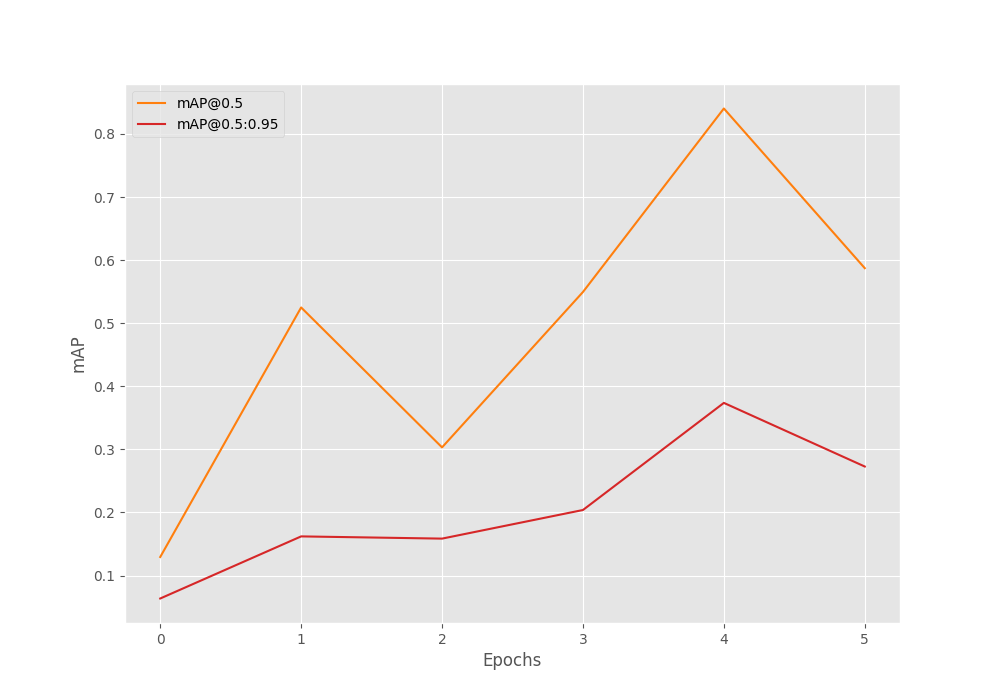
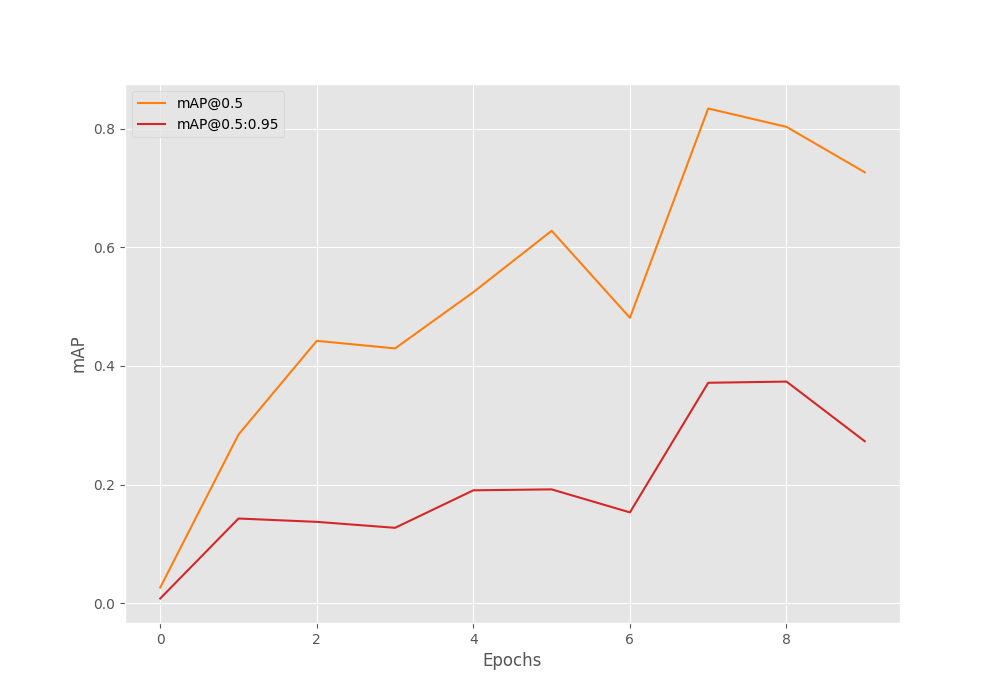
minor fixes to object detection

diff --git a/Python/custom_object_detection/src/model.py b/Python/custom_object_detection/src/model.py
@@ -13,11 +13,11 @@ from torchvision.models.detection.ssd import (
 #Average FPS: 51
 
 def create_model(num_classes=91, size=300, nms=0.45):
-    model_backbone = torchvision.models.resnet34(
-        weights=torchvision.models.ResNet34_Weights.DEFAULT
+    model_backbone = torchvision.models.resnet18(
+        weights=torchvision.models.ResNet18_Weights.DEFAULT
     )
 
-    #conv1 = model_backbone.conv1
+    conv1 = model_backbone.conv1
     bn1 = model_backbone.bn1
     relu = model_backbone.relu
     max_pool = model_backbone.maxpool
@@ -26,8 +26,7 @@ def create_model(num_classes=91, size=300, nms=0.45):
     layer3 = model_backbone.layer3
     layer4 = model_backbone.layer4
     backbone = nn.Sequential(
-        #conv1,
-        bn1, relu, max_pool, 
+        conv1, bn1, relu, max_pool, 
         layer1, layer2, layer3, layer4
     )
     out_channels = [512, 512, 512, 512, 512, 512]

diff --git a/Python/custom_object_detection/src/inference.py b/Python/custom_object_detection/src/inference.py
@@ -18,6 +18,7 @@ np.random.seed(42)
 parser = argparse.ArgumentParser()
 parser.add_argument(
     '-i', '--input', 
+    default='./data/Microcontroller_Detection/test',
     help='path to input image directory',
 )
 parser.add_argument(
@@ -28,7 +29,7 @@ parser.add_argument(
 )
 parser.add_argument(
     '--threshold',
-    default=0.25,
+    default=0.30,
     type=float,
     help='detection threshold'
 )
